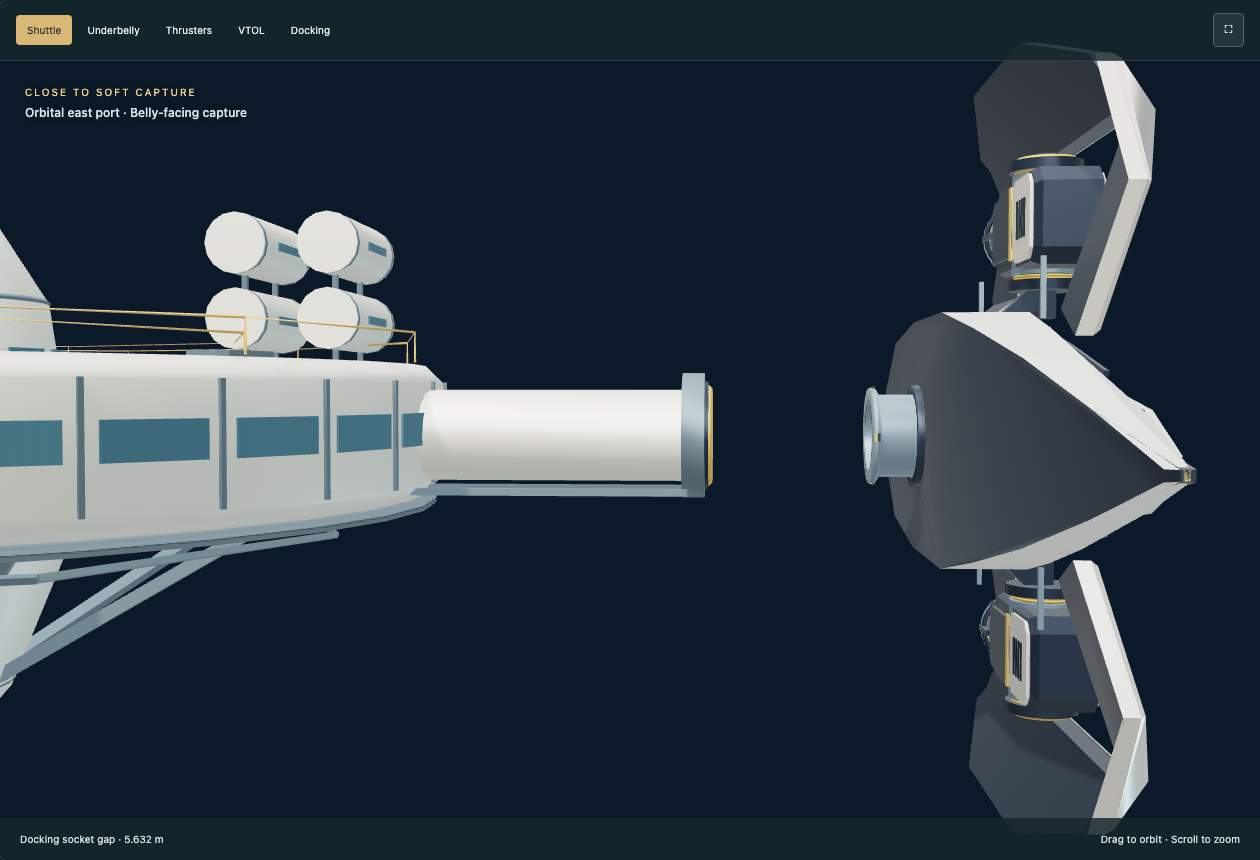
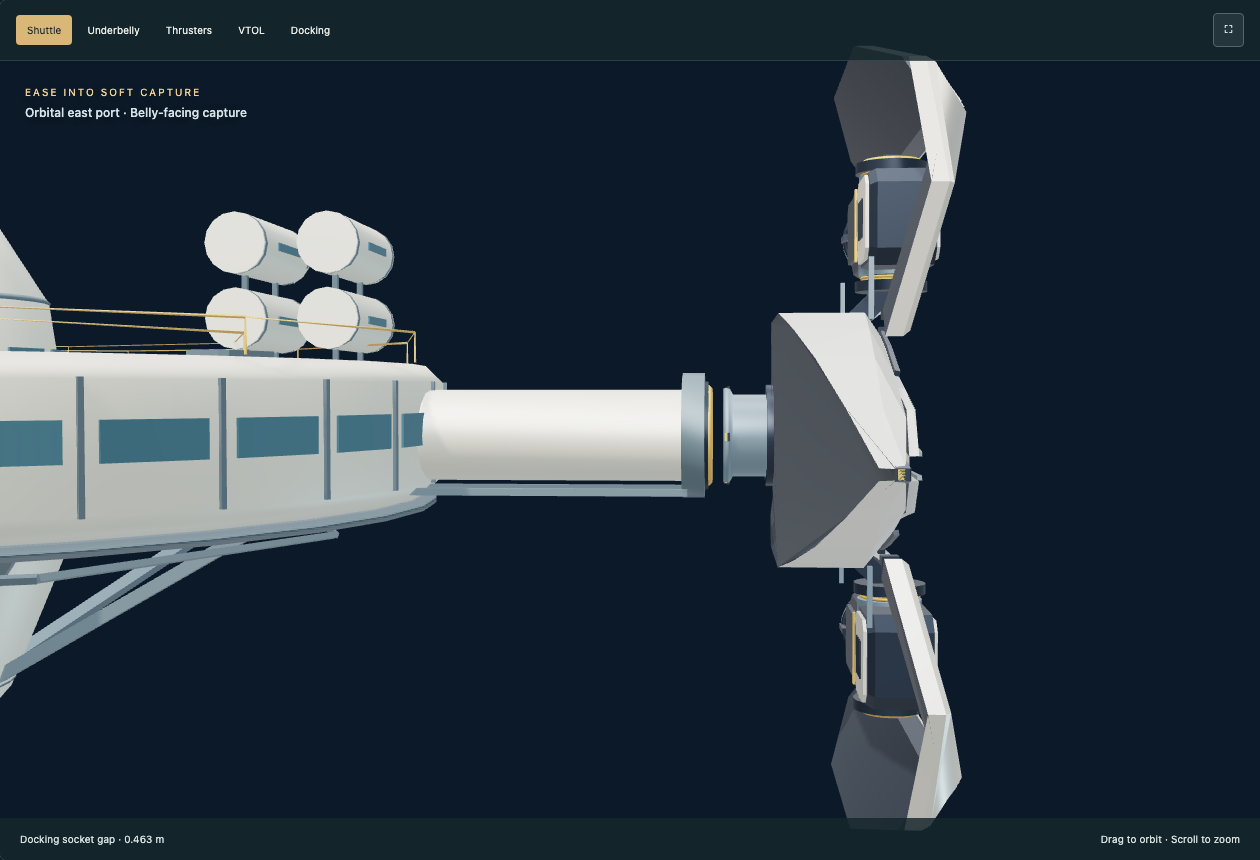
Blend SHUTTLE-02 docking roll into early approach

Changed region(s): [[0.5571, 0.0302, 0.9595, 0.9674], [0.031, 0.0907, 0.1548, 0.1209], [0.0929, 0.9674, 0.1238, 0.9977]]

diff --git a/shuttle-02/index.html b/shuttle-02/index.html
@@ -1,1 +1,1 @@
-<!doctype html><html lang="en"><head><meta charset="utf-8"><meta name="viewport" content="width=device-width,initial-scale=1"><title>SHUTTLE-02 / Orbital shuttle</title><link rel="stylesheet" href="../workshop/navigation.css"><link rel="stylesheet" href="style.css"><script type="importmap">{"imports":{"three":"https://cdn.jsdelivr.net/npm/three@0.180.0/build/three.module.js","three/addons/":"https://cdn.jsdelivr.net/npm/three@0.180.0/examples/jsm/"}}</script></head><body class="workshop-viewer"><header class="workshop-header"><a class="workshop-home" href="../">← Back to Workshop</a><nav class="workshop-tabs" aria-label="Workshop navigation"><a href="../" aria-current="page">Workshop</a><a href="../devlog/">Devlog</a><a href="../roadmap/">Roadmap</a><a href="../readiness/">Readiness</a><a href="../best-practices/">Best Practices</a></nav></header><main><section class="intro"><div><p class="eyebrow">SHUTTLE SERIES / 02</p><h1>Lift. Rotate. Depart.</h1><p>An industrial shuttle with rotating lift engines and a shared orbital airlock.</p></div><div class="spec">SHUTTLE-02<span>42 m length · 25.2 m span · Rotating VTOL pods</span></div></section><div class="workspace"><section id="stage"><div class="scene-toolbar"><div class="view-tabs" role="group" aria-label="Shuttle views"><button data-view="hero" aria-pressed="true">Shuttle</button><button data-view="belly">Underbelly</button><button data-view="engines">Thrusters</button><button data-view="vtol">VTOL</button><button data-view="dock">Docking</button></div><button id="fullscreen" title="Fullscreen">⛶</button></div><div class="caption"><span id="phase">SHUTTLE-02 / INSPECTION</span><b id="activity">Armored deck · Independent rotating thrusters</b></div><div id="loading" role="status">Preparing SHUTTLE-02…</div><div class="scene-bottom"><span id="dock-status">Underbelly hatch closed · Collar stowed</span><span>Drag to orbit · Scroll to zoom</span></div></section><aside><p class="eyebrow">SHUTTLE CONTROL</p><label>Mode<select id="mode"><option value="inspect">Inspect shuttle</option><option value="vtol">VTOL transition</option><option value="docking">Orbital docking</option></select></label><div class="button-row"><button id="play">Play VTOL</button><button id="reset">Reset</button></div><label>Sequence <output id="time-label">0.0 / 72 s</output><input id="time" type="range" min="0" max="72" step=".01" value="0"></label><label>Chapter<select id="chapter"></select></label><div class="pair"><label>Detail<select id="quality"><option value="0">Master</option><option value="1" selected>Game</option><option value="2">Distance / static</option></select></label><label>Speed<select id="speed"><option value=".5">½×</option><option value="1" selected>1×</option><option value="2">2×</option></select></label></div><label>Camera<select id="camera"><option value="hero">Three-quarter</option><option value="top">Top / planform</option><option value="front">Front</option><option value="belly">Underbelly</option><option value="hatch">Airlock detail</option><option value="engines">Thruster detail</option><option value="auto">Docking camera</option><option value="port">Docking interface</option><option value="orbit">Free orbit</option></select></label><label>Collar extension <output id="extension-value">Stowed</output><input id="extension" type="range" min="0" max="1" step=".01" value="0"></label><label>Underbelly hatch <output id="hatch-value">Closed</output><input id="hatch" type="range" min="0" max="1" step=".01" value="0"></label><label>Capture latches <output id="lock-value">Released</output><input id="lock" type="range" min="0" max="1" step=".01" value="0"></label><label>Left thruster <output id="tiltL-value">0° / Hover</output><input id="tiltL" type="range" min="0" max="90" step="1" value="0"></label><label>Right thruster <output id="tiltR-value">0° / Hover</output><input id="tiltR" type="range" min="0" max="90" step="1" value="0"></label><div class="button-row"><button id="hover">Hover ↓</button><button id="cruise">Cruise →</button></div><div class="checks"><label><input id="wire" type="checkbox"> Wireframe</label><label><input id="exhaust" type="checkbox" checked> Engine plumes</label><label><input id="loop" type="checkbox"> Loop docking</label></div><p id="message" role="status">Opening the hatch first extends the collar to clear the sliding panels.</p><p id="metrics"></p><button id="photo">Save image</button><a class="download" id="download" download>Download shuttle GLB ↓</a></aside></div><section class="notes"><article><span>01 / INDUSTRIAL HULL</span><h2>Built around its engines.</h2><p>A long armored spine, layered service panels and broad protective cheeks frame the exposed rotary engine mounts.</p></article><article><span>02 / ROTATING VTOL</span><h2>From lift to forward thrust.</h2><p>Both thruster pods turn through 90° on visible trunnions. Tilt them independently or watch the shuttle lift, transition to cruise and return to hover.</p></article><article><span>03 / SHARED DOCKING</span><h2>The same way into the station.</h2><p>The underbelly collar and sliding hatch stay clear at every thruster angle. Roll toward the orbital terminal, capture its east port and open the outer airlock.</p></article></section><footer><span>SHUTTLE-02 · Models by jelaludo</span><a href="../shuttle-01/">SHUTTLE-01</a><a href="../space-elevator/">Space elevator</a><a href="../assets/shuttle-02/README.md">Integration notes</a><a href="../assets/shuttle-02/manifest.json">Manifest</a></footer></main><script type="module" src="viewer.js"></script></body><script type="module" src="../workshop/navigation.js"></script></html>
+<!doctype html><html lang="en"><head><meta charset="utf-8"><meta name="viewport" content="width=device-width,initial-scale=1"><title>SHUTTLE-02 / Orbital shuttle</title><link rel="stylesheet" href="../workshop/navigation.css"><link rel="stylesheet" href="style.css"><script type="importmap">{"imports":{"three":"https://cdn.jsdelivr.net/npm/three@0.180.0/build/three.module.js","three/addons/":"https://cdn.jsdelivr.net/npm/three@0.180.0/examples/jsm/"}}</script></head><body class="workshop-viewer"><header class="workshop-header"><a class="workshop-home" href="../">← Back to Workshop</a><nav class="workshop-tabs" aria-label="Workshop navigation"><a href="../" aria-current="page">Workshop</a><a href="../devlog/">Devlog</a><a href="../roadmap/">Roadmap</a><a href="../readiness/">Readiness</a><a href="../best-practices/">Best Practices</a></nav></header><main><section class="intro"><div><p class="eyebrow">SHUTTLE SERIES / 02</p><h1>Lift. Rotate. Depart.</h1><p>An industrial shuttle with rotating lift engines and a shared orbital airlock.</p></div><div class="spec">SHUTTLE-02<span>42 m length · 25.2 m span · Rotating VTOL pods</span></div></section><div class="workspace"><section id="stage"><div class="scene-toolbar"><div class="view-tabs" role="group" aria-label="Shuttle views"><button data-view="hero" aria-pressed="true">Shuttle</button><button data-view="belly">Underbelly</button><button data-view="engines">Thrusters</button><button data-view="vtol">VTOL</button><button data-view="dock">Docking</button></div><button id="fullscreen" title="Fullscreen">⛶</button></div><div class="caption"><span id="phase">SHUTTLE-02 / INSPECTION</span><b id="activity">Armored deck · Independent rotating thrusters</b></div><div id="loading" role="status">Preparing SHUTTLE-02…</div><div class="scene-bottom"><span id="dock-status">Underbelly hatch closed · Collar stowed</span><span>Drag to orbit · Scroll to zoom</span></div></section><aside><p class="eyebrow">SHUTTLE CONTROL</p><label>Mode<select id="mode"><option value="inspect">Inspect shuttle</option><option value="vtol">VTOL transition</option><option value="docking">Orbital docking</option></select></label><div class="button-row"><button id="play">Play VTOL</button><button id="reset">Reset</button></div><label>Sequence <output id="time-label">0.0 / 72 s</output><input id="time" type="range" min="0" max="72" step=".01" value="0"></label><label>Chapter<select id="chapter"></select></label><div class="pair"><label>Detail<select id="quality"><option value="0">Master</option><option value="1" selected>Game</option><option value="2">Distance / static</option></select></label><label>Speed<select id="speed"><option value=".5">½×</option><option value="1" selected>1×</option><option value="2">2×</option></select></label></div><label>Camera<select id="camera"><option value="hero">Three-quarter</option><option value="top">Top / planform</option><option value="front">Front</option><option value="belly">Underbelly</option><option value="hatch">Airlock detail</option><option value="engines">Thruster detail</option><option value="auto">Docking camera</option><option value="port">Docking interface</option><option value="orbit">Free orbit</option></select></label><label>Collar extension <output id="extension-value">Stowed</output><input id="extension" type="range" min="0" max="1" step=".01" value="0"></label><label>Underbelly hatch <output id="hatch-value">Closed</output><input id="hatch" type="range" min="0" max="1" step=".01" value="0"></label><label>Capture latches <output id="lock-value">Released</output><input id="lock" type="range" min="0" max="1" step=".01" value="0"></label><label>Left thruster <output id="tiltL-value">0° / Hover</output><input id="tiltL" type="range" min="0" max="90" step="1" value="0"></label><label>Right thruster <output id="tiltR-value">0° / Hover</output><input id="tiltR" type="range" min="0" max="90" step="1" value="0"></label><div class="button-row"><button id="hover">Hover ↓</button><button id="cruise">Cruise →</button></div><div class="checks"><label><input id="wire" type="checkbox"> Wireframe</label><label><input id="exhaust" type="checkbox" checked> Engine plumes</label><label><input id="loop" type="checkbox"> Loop docking</label></div><p id="message" role="status">Opening the hatch first extends the collar to clear the sliding panels.</p><p id="metrics"></p><button id="photo">Save image</button><a class="download" id="download" download>Download shuttle GLB ↓</a></aside></div><section class="notes"><article><span>01 / INDUSTRIAL HULL</span><h2>Built around its engines.</h2><p>A long armored spine, layered service panels and broad protective cheeks frame the exposed rotary engine mounts.</p></article><article><span>02 / ROTATING VTOL</span><h2>From lift to forward thrust.</h2><p>Both thruster pods turn through 90° on visible trunnions. Tilt them independently or watch the shuttle lift, transition to cruise and return to hover.</p></article><article><span>03 / SHARED DOCKING</span><h2>The same way into the station.</h2><p>The underbelly collar and sliding hatch stay clear at every thruster angle. Roll toward the orbital terminal, capture its east port and open the outer airlock.</p></article></section><footer><span>SHUTTLE-02 · Models by jelaludo</span><a href="../shuttle-01/">SHUTTLE-01</a><a href="../space-elevator/">Space elevator</a><a href="../assets/shuttle-02/README.md">Integration notes</a><a href="../assets/shuttle-02/manifest.json">Manifest</a></footer></main><script type="module" src="viewer.js?v=early-dock-r2"></script></body><script type="module" src="../workshop/navigation.js"></script></html>

diff --git a/shuttle-02/viewer.js b/shuttle-02/viewer.js
@@ -2,13 +2,13 @@ import * as T from 'three';
 import {GLTFLoader} from 'three/addons/loaders/GLTFLoader.js';
 import {OrbitControls} from 'three/addons/controls/OrbitControls.js';
 import {RoomEnvironment} from 'three/addons/environments/RoomEnvironment.js';
-import {poseShuttle,applyDocking,applyVTOL,PHASES,VTOL_PHASES,SPEC,smooth} from '../assets/shuttle-02/runtime.js';
+import {poseShuttle,applyDocking,applyVTOL,PHASES,VTOL_PHASES,SPEC,smooth} from '../assets/shuttle-02/runtime.js?v=early-dock-r2';
 const $=id=>document.getElementById(id),stage=$('stage'),renderer=new T.WebGLRenderer({antialias:true,preserveDrawingBuffer:true});renderer.setPixelRatio(Math.min(devicePixelRatio,2));renderer.shadowMap.enabled=true;renderer.shadowMap.type=T.PCFSoftShadowMap;renderer.toneMapping=T.ACESFilmicToneMapping;renderer.toneMappingExposure=1;stage.prepend(renderer.domElement);renderer.domElement.setAttribute('aria-label','SHUTTLE-02 with underbelly airlock and orbital station docking demonstration');
 const scene=new T.Scene();scene.background=new T.Color(0x536d80);scene.fog=new T.Fog(0x536d80,130,360);const pm=new T.PMREMGenerator(renderer),room=new RoomEnvironment(),environment=pm.fromScene(room,.035);scene.environment=environment.texture;scene.environmentIntensity=.8;room.dispose();pm.dispose();scene.add(new T.HemisphereLight(0xe6f4ff,0x7a8894,.8));const sun=new T.DirectionalLight(0xffeddb,3.1);sun.position.set(-35,70,40);sun.castShadow=true;sun.shadow.mapSize.set(2048,2048);Object.assign(sun.shadow.camera,{left:-70,right:70,top:70,bottom:-70,near:1,far:240});sun.shadow.normalBias=.025;sun.shadow.bias=-.00005;scene.add(sun,sun.target);
 const fill=new T.DirectionalLight(0x9bcfe9,.6);fill.position.set(30,-20,-25);scene.add(fill);
 const camera=new T.PerspectiveCamera(36,1,.05,1000),controls=new OrbitControls(camera,renderer.domElement);controls.enableDamping=true;controls.minDistance=3;controls.maxDistance=300;
 const ground=new T.Mesh(new T.PlaneGeometry(800,800),new T.MeshStandardMaterial({color:0x6d8290,roughness:.9}));ground.rotation.x=-Math.PI/2;ground.position.y=-6;ground.receiveShadow=true;scene.add(ground);const grid=new T.GridHelper(160,40,0x76909f,0x76909f);grid.position.y=-5.98;grid.material.transparent=true;grid.material.opacity=.12;scene.add(grid);
-const loader=new GLTFLoader(),manifest=await fetch('../assets/shuttle-02/manifest.json').then(r=>r.json());let unit,station,lod=1,ready=false,mode='inspect',view='hero',time=0,running=false,ticket=0,last=performance.now(),pose={},state={};
+const loader=new GLTFLoader(),manifest=await fetch('../assets/shuttle-02/manifest.json?v=early-dock-r2').then(r=>r.json());let unit,station,lod=1,ready=false,mode='inspect',view='hero',time=0,running=false,ticket=0,last=performance.now(),pose={},state={};
 const effects=[];for(const id of ['L','R']){const root=new T.Group();root.name='VIEWER_EXHAUST_'+id;for(const [radius,length,color,opacity]of [[.75,7,0x71b9ff,.23],[.34,5.4,0xc5efff,.6]]){const geometry=new T.ConeGeometry(radius,length,24,1,true);geometry.rotateX(Math.PI/2);geometry.translate(0,0,length/2);const m=new T.Mesh(geometry,new T.ShaderMaterial({transparent:true,blending:T.AdditiveBlending,depthWrite:false,side:T.DoubleSide,toneMapped:false,uniforms:{tint:{value:new T.Color(color)},alpha:{value:opacity}},vertexShader:'varying vec2 vUv;varying vec3 n;varying vec3 w;void main(){vUv=uv;n=normalize(mat3(modelMatrix)*normal);w=(modelMatrix*vec4(position,1.)).xyz;gl_Position=projectionMatrix*viewMatrix*vec4(w,1.);}',fragmentShader:'uniform vec3 tint;uniform float alpha;varying vec2 vUv;varying vec3 n;varying vec3 w;void main(){float edge=pow(abs(dot(normalize(n),normalize(cameraPosition-w))),.65);float fade=pow(1.-vUv.y,1.7);gl_FragColor=vec4(tint,alpha*edge*fade);\n#include <colorspace_fragment>\n}'}));root.add(m);}scene.add(root);effects.push({id,root});}
 function chapters(){ $('chapter').replaceChildren();for(const c of mode==='vtol'?VTOL_PHASES:PHASES)$('chapter').append(new Option(c.title,c.start));}
 const duration=()=>mode==='vtol'?24:72;chapters();

diff --git a/devlog/index.html b/devlog/index.html
@@ -1,4 +1,7 @@
 <!doctype html><html lang="en"><head><meta charset="utf-8"><meta name="viewport" content="width=device-width,initial-scale=1"><title>Devlog / jelaludo Workshop</title><link rel="stylesheet" href="../workshop/documentation.css"><link rel="stylesheet" href="../workshop/navigation.css"></head><body><header class="workshop-header"><a class="workshop-home" href="../">← Back to Workshop</a><nav class="workshop-tabs" aria-label="Workshop navigation"><a href="../">Workshop</a><a href="../devlog/" aria-current="page">Devlog</a><a href="../roadmap/">Roadmap</a><a href="../readiness/">Readiness</a><a href="../best-practices/">Best Practices</a></nav></header><main class="documentation"><p class="eyebrow">Workshop / Devlog</p><div class="doc-source">Changes and requests for the model library.<br><a href="../docs/DEVLOG.md">Read the source notes</a> · <a href="../docs/DEVLOG.md" download>Download Markdown</a></div><h1>Devlog</h1>
+<h2>8 November 2026 / SHUTTLE-02 — flowing docking approach</h2>
+<p>Started the belly roll at 2 seconds instead of 10 and spread it over 12 seconds. Forward approach now continues until 18 seconds, lateral closure overlaps from 3–30 seconds, and collar extension runs during 12–20 seconds. Quintic easing keeps velocity and acceleration continuous at the arrival joins, removes the stop-and-turn pause, and reduces peak roll rate from 22.5°/s to about 14.06°/s. The shuttle settles into the same socket frame at 30 seconds; capture, hatch operation, departure timing and the 72-second duration remain intact.</p>
+<p>Updated chapter labels, manifest revision/timing, integration notes, viewer cache versions and arrival previews. Regression checks verify rolling while travelling, no intermediate stop or reversal, continuous arrival velocity/acceleration, station clearance and exact final mating. Browser checks cover both animated tiers and both sequences. All source GLBs, names, pivots, dimensions, VTOL behaviour, SHUTTLE-01 and the received collaboration contract are unchanged. Completed: requested earlier, smoother docking rotation; visual acceptance and the previously listed game-integration work remain pending.</p>
 <h2>8 November 2026 / SHUTTLE-02 — industrial VTOL and shared docking</h2>
 <p>Created the second shuttle from the supplied industrial concept: a long armored spine, pointed split-channel nose, low control blister, layered sloping side shields, exposed trunnions and two independent engine pods. Each complete nacelle rotates from downward lift at 0° to aft thrust at 90°, with its exhaust socket and viewer plume following the pivot. Low rear bridges and short chassis braces leave the engine sweep and exhaust centrelines clear. Neutral bounds are 25.200 × 42.000 × 7.650 m; the sampled tilt envelope reaches 7.8203 m high.</p>
 <p>The shared belly interface has a 1.2 m telescoping collar, 2.5 m clear passage, two sliding hatch leaves and four capture latches. It mates exactly with the existing station east port after a 90° roll, independently of thruster angle. The <code>shuttle-02/</code> viewer includes a 24-second vertical lift / transition / cruise-attitude / return cycle, the 72-second orbital docking/departure sequence, independent tilt sliders, Hover/Cruise shortcuts, manual airlock controls, per-sequence chapters and seeking, pause/reset/loop/speeds, cameras, wireframe, plumes, fullscreen, PNG capture and GLB downloads. The station&#x27;s inner pressure cap remains closed; this is a kinematic external docking prototype, not a pressure, flight-force or crew-transfer simulation.</p>

diff --git a/assets/shuttle-02/runtime.js b/assets/shuttle-02/runtime.js
@@ -1,11 +1,15 @@
 export const clamp=(v,a=0,b=1)=>Math.max(a,Math.min(b,v));
 export const smooth=v=>{v=clamp(v);return v*v*(3-2*v);};
 export const SPEC={length_m:42,span_m:25.2,belly_z_m:-2,collar_stroke_m:1.2,seal_radius_m:1.7,clear_radius_m:1.25,hatch_travel_m:1.45,station_socket:'SOCKET_DOCK_E',station_port_m:[30.8,15,0],docked_roll_rad:-Math.PI/2,demo_duration_s:72,vtol_duration_s:24,thruster_centres_m:[[-7.2,4.5,0],[7.2,4.5,0]],thruster_tilt_deg:[0,90]};
+export const DOCK_TIMING={roll_start_s:2,roll_end_s:14,lateral_start_s:3,forward_align_s:18,collar_start_s:12,collar_end_s:20,capture_s:30};
+// Zero velocity and acceleration at either end let arrival motions overlap
+// without a stop-and-turn beat or a snap into the final mating attitude.
+const arrivalEase=v=>{v=clamp(v);return v*v*v*(v*(v*6-15)+10);};
 export const PHASES=[
- {id:'approach',start:0,end:10,title:'Approach the terminal'},
- {id:'roll',start:10,end:16,title:'Roll belly toward the port'},
- {id:'extend',start:16,end:20,title:'Extend the docking collar'},
- {id:'capture',start:20,end:30,title:'Close to soft capture'},
+ {id:'approach',start:0,end:2,title:'Approach the terminal'},
+ {id:'roll',start:2,end:12,title:'Roll during approach'},
+ {id:'extend',start:12,end:20,title:'Align and extend the collar'},
+ {id:'capture',start:20,end:30,title:'Ease into soft capture'},
  {id:'lock',start:30,end:32,title:'Engage four capture latches'},
  {id:'open',start:32,end:35,title:'Open the underbelly hatch'},
  {id:'transfer',start:35,end:42,title:'Docked / airlock exposed'},
@@ -16,11 +20,8 @@ export const PHASES=[
  {id:'level',start:57,end:63,title:'Return to level attitude'},
  {id:'depart',start:63,end:72,title:'Depart the terminal'}
 ];
-function baseDocking(value){const t=clamp(value,0,72),f=(a,b)=>smooth((t-a)/(b-a));const dockZ=-SPEC.belly_z_m;let position=[48,15,dockZ],roll=0,extension=0,lock=0,hatch=0,thrust=0;
- if(t<10){const u=f(0,10);position=[50-2*u,15,-80+(80+dockZ)*u];thrust=.3*(1-u);}
- if(t>=10)roll=-Math.PI/2*f(10,16);
- if(t>=16)extension=f(16,20);
- if(t>=20)position=[48-16*f(20,30),15,dockZ];
+function baseDocking(value){const t=clamp(value,0,72),f=(a,b)=>smooth((t-a)/(b-a)),q=(a,b)=>arrivalEase((t-a)/(b-a)),d=DOCK_TIMING;const dockZ=-SPEC.belly_z_m;
+ let position=[50-18*q(d.lateral_start_s,d.capture_s),15,-80+(80+dockZ)*q(0,d.forward_align_s)],roll=-Math.PI/2*q(d.roll_start_s,d.roll_end_s),extension=q(d.collar_start_s,d.collar_end_s),lock=0,hatch=0,thrust=.3*(1-q(0,d.forward_align_s));
  if(t>=30)lock=f(30,32);
  if(t>=32)hatch=f(32,35);
  if(t>=42)hatch=1-f(42,45);

diff --git a/assets/shuttle-02/README.md b/assets/shuttle-02/README.md
@@ -67,13 +67,15 @@ Engine-driven pivots are not baked. State functions support deterministic seekin
 
 VTOL: 0–5 s lift, 5–11 transition to aft thrust, 11–15 cruise attitude, 15–21 return to vertical thrust, 21–24 settle into hover. The loop has matching position and tilt endpoints. The presentation demonstrates a 5 m lift and tilt conversion, with no force-based flight solver.
 
-Docking: 0–10 approach, 10–16 roll, 16–20 extend collar, 20–30 close, 30–32 capture, 32–35 open hatch, 35–42 hold, 42–45 close, 45–47 unlock, 47–54 retreat, 54–57 retract, 57–63 level, 63–72 depart. The demonstration parks thrusters at 90°, but the mechanical interface is tested across independent left/right tilt combinations. Opening follows capture; closure precedes release.
+Docking revision 2 overlaps the arrival motions: forward approach runs 0–18 s, the 90° belly roll starts at 2 s and completes at 14 s, lateral closure runs 3–30 s, and the collar extends during 12–20 s. Quintic easing gives each arrival channel zero velocity and acceleration at its endpoints. The shuttle keeps moving through alignment instead of stopping to rotate; peak roll rate is about 14.06°/s. Chapters mark the dominant action, so their boundaries do not separate those overlapping motions.
+
+The remaining sequence stays at 30–32 s capture, 32–35 open hatch, 35–42 hold, 42–45 close, 45–47 unlock, 47–54 retreat, 54–57 retract, 57–63 level and 63–72 depart. Thrusters are parked at 90° in the demonstration, but the mechanical interface is tested across independent left/right tilt combinations. Opening follows capture; closure precedes release. The final docking frame, VTOL cycle and all GLBs are unchanged from revision 1.
 
 ## Viewer and verification
 
 The viewer offers manual independent thruster sliders, paired Hover/Cruise shortcuts, collar/hatch/latch controls, both animation sequences with independent durations and chapter menus, reversible scrubbing, pause/reset/loop, ½× / 1× / 2× speeds, three detail levels, camera presets/free orbit, wireframe, plumes, fullscreen, PNG capture and selected GLB downloads. Static tier motion controls are disabled. Shared navigation, the Workshop card and cross-links connect both shuttles and the station.
 
-`validation.json` records zero glTF errors/warnings, finite nondegenerate geometry, unique dot-free names, frame/socket parity, bounds, budgets, aperture rays, 1,442 docking-cycle states, 722 independent docked tilt combinations, full swept-cylinder separation, exhaust direction/centreline checks and 482 VTOL states. During mating the socket error is zero. Non-coupling shuttle meshes stay at least 1.440 m beyond the station's X bounding plane during the standard cycle. Contact interfaces are excluded from that check; general structural/thermal/flight certification is not claimed.
+`validation.json` records zero glTF errors/warnings, finite nondegenerate geometry, unique dot-free names, frame/socket parity, bounds, budgets, aperture rays, 1,442 docking-cycle states, 722 independent docked tilt combinations, full swept-cylinder separation, exhaust direction/centreline checks and 482 VTOL states. Arrival regression checks cover continuous forward/lateral travel, an early rolling approach and velocity/acceleration continuity at all arrival joins. During mating the socket error is zero. Non-coupling shuttle meshes stay at least 1.440 m beyond the station's X bounding plane during the standard cycle. Contact interfaces are excluded from that check; general structural/thermal/flight certification is not claimed.
 
 `viewer-validation.json` records desktop/mobile checks and actual model render counts. `preview.png` and `previews/` are derived captures, including hover, cruise, engine transition, open hatch, station coupling and mobile layout.
 

diff --git a/docs/DEVLOG.md b/docs/DEVLOG.md
@@ -1,5 +1,11 @@
 # Devlog
 
+## 8 November 2026 / SHUTTLE-02 — flowing docking approach
+
+Started the belly roll at 2 seconds instead of 10 and spread it over 12 seconds. Forward approach now continues until 18 seconds, lateral closure overlaps from 3–30 seconds, and collar extension runs during 12–20 seconds. Quintic easing keeps velocity and acceleration continuous at the arrival joins, removes the stop-and-turn pause, and reduces peak roll rate from 22.5°/s to about 14.06°/s. The shuttle settles into the same socket frame at 30 seconds; capture, hatch operation, departure timing and the 72-second duration remain intact.
+
+Updated chapter labels, manifest revision/timing, integration notes, viewer cache versions and arrival previews. Regression checks verify rolling while travelling, no intermediate stop or reversal, continuous arrival velocity/acceleration, station clearance and exact final mating. Browser checks cover both animated tiers and both sequences. All source GLBs, names, pivots, dimensions, VTOL behaviour, SHUTTLE-01 and the received collaboration contract are unchanged. Completed: requested earlier, smoother docking rotation; visual acceptance and the previously listed game-integration work remain pending.
+
 ## 8 November 2026 / SHUTTLE-02 — industrial VTOL and shared docking
 
 Created the second shuttle from the supplied industrial concept: a long armored spine, pointed split-channel nose, low control blister, layered sloping side shields, exposed trunnions and two independent engine pods. Each complete nacelle rotates from downward lift at 0° to aft thrust at 90°, with its exhaust socket and viewer plume following the pivot. Low rear bridges and short chassis braces leave the engine sweep and exhaust centrelines clear. Neutral bounds are 25.200 × 42.000 × 7.650 m; the sampled tilt envelope reaches 7.8203 m high.
